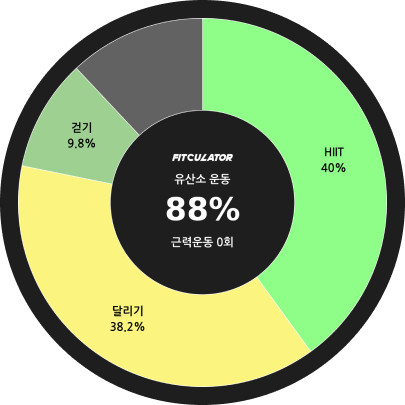
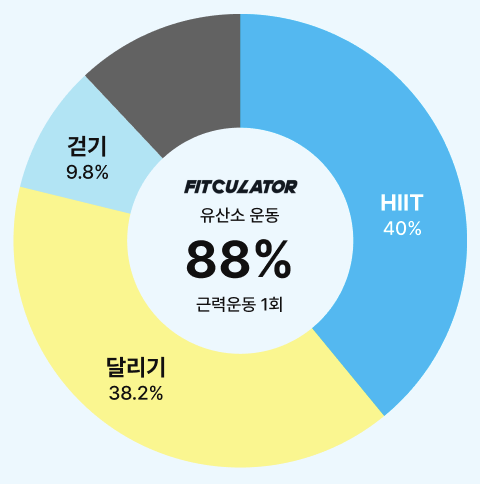
섹션 이미지 및 정렬 수정

diff --git a/src/components/section.tsx b/src/components/section.tsx
@@ -23,35 +23,33 @@ const Section: React.FC<SectionProps> = ({
   textAlign = false,
 }) => {
   return (
-    <div>
+    <div
+      className={`flex flex-row w-[56rem] ${
+        reverseX ? 'flex-row-reverse' : ''
+      } h-auto ${reverseY ? 'flex-col' : ''} gap-[5rem]`}
+    >
       <div
-        className={`flex flex-row w-[56rem] ${
-          reverseX ? 'flex-row-reverse' : ''
-        } h-auto ${reverseY ? 'flex-col' : ''} gap-[5rem]`}
+        className={`${textAlign ? 'text-right' : 'text-left'} ${
+          textCenter ? 'text-center' : ''
+        }`}
       >
-        <div
-          className={`${textAlign ? 'text-right' : 'text-left'} ${
-            textCenter ? 'text-center' : ''
-          }`}
-        >
-          <h2 className="text-2.5-700 md:text-1.5-700 sm:text-1.6-700 mb-2">
-            {title}
-          </h2>
-          {description && (
-            <p className="text-1.75-500 text-gray-700 ">{description}</p>
-          )}
-        </div>
-        {imageSrc && (
-          <div>
-            <Image
-              src={`/images/${imageSrc}.png`}
-              alt={imageSrc}
-              width={imgeSize}
-              height={100}
-            />
-          </div>
+        <h2 className="text-2.5-700 md:text-1.5-700 sm:text-1.6-700 mb-2">
+          {title}
+        </h2>
+        {description && (
+          <p className="text-1.75-500 text-gray-700 ">{description}</p>
         )}
       </div>
+      {imageSrc && (
+        <div>
+          <Image
+            src={`/images/${imageSrc}.png`}
+            alt={imageSrc}
+            width={imgeSize}
+            height={100}
+          />
+        </div>
+      )}
     </div>
   );
 };

diff --git a/src/app/page.tsx b/src/app/page.tsx
@@ -75,7 +75,7 @@ export default function Home() {
               </>
             }
             imageSrc="graph"
-            imgeSize={300}
+            imgeSize={350}
           />
           <Section
             title={<>운동량그래프, 피로도 분석</>}
@@ -86,8 +86,8 @@ export default function Home() {
                 친절하게 답변을 남겨요.
               </>
             }
-            imageSrc="graph"
-            imgeSize={300}
+            imageSrc="section-image1"
+            imgeSize={400}
             reverseX
             textAlign
           />
@@ -104,8 +104,8 @@ export default function Home() {
                 <br /> 친절하게 답변을 남겨요.
               </>
             }
-            imageSrc="graph"
-            imgeSize={300}
+            imageSrc="section-image2"
+            imgeSize={400}
           />
 
           <Section
@@ -121,8 +121,8 @@ export default function Home() {
                 <br /> 받아볼 수 있어요.
               </>
             }
-            imageSrc="graph"
-            imgeSize={300}
+            imageSrc="section-image3"
+            imgeSize={400}
             reverseX
             textAlign
           />

diff --git a/tailwind.config.ts b/tailwind.config.ts
@@ -20,7 +20,7 @@ const config: Config = {
       },
       colors: {
         blue: {
-          DEFAULT: '#E4EFF5',
+          DEFAULT: '#EBF8FF',
         },
         gray: {
           DEFAULT: '#F2F2F2',
